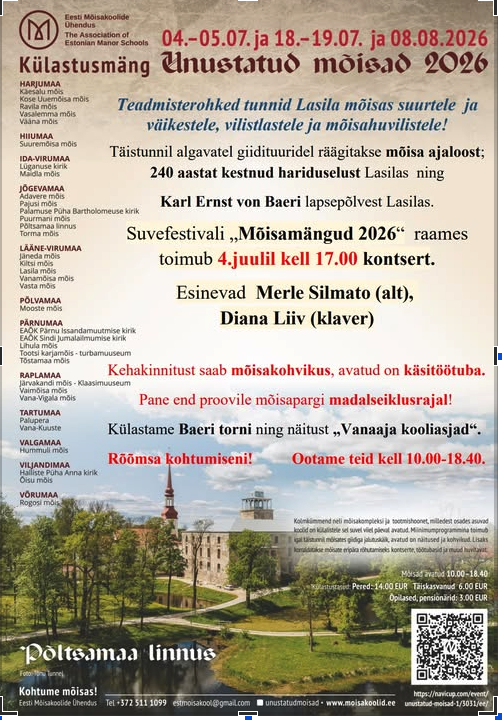
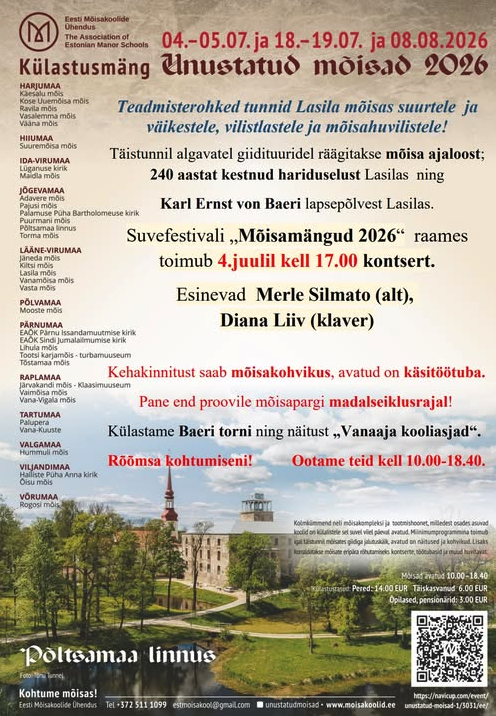
pildi uuendus

diff --git a/index.html b/index.html
@@ -33,8 +33,8 @@
   <meta property="og:description" content="Lasila küla kogukonna koduleht. Külastusmäng Unustatud mõisad 2026 — Lasila mõis avatud 18.–19.07 ja 08.08.2026 kell 10.00–18.40." />
   <meta property="og:url" content="https://www.lasila.ee/" />
   <meta property="og:image" content="https://www.lasila.ee/images/unustatud-moisad-2026-poster.png" />
-  <meta property="og:image:width" content="504" />
-  <meta property="og:image:height" content="724" />
+  <meta property="og:image:width" content="496" />
+  <meta property="og:image:height" content="716" />
   <meta property="og:locale" content="et_EE" />
   <meta property="og:site_name" content="MTÜ Lasila Küla" />
 
